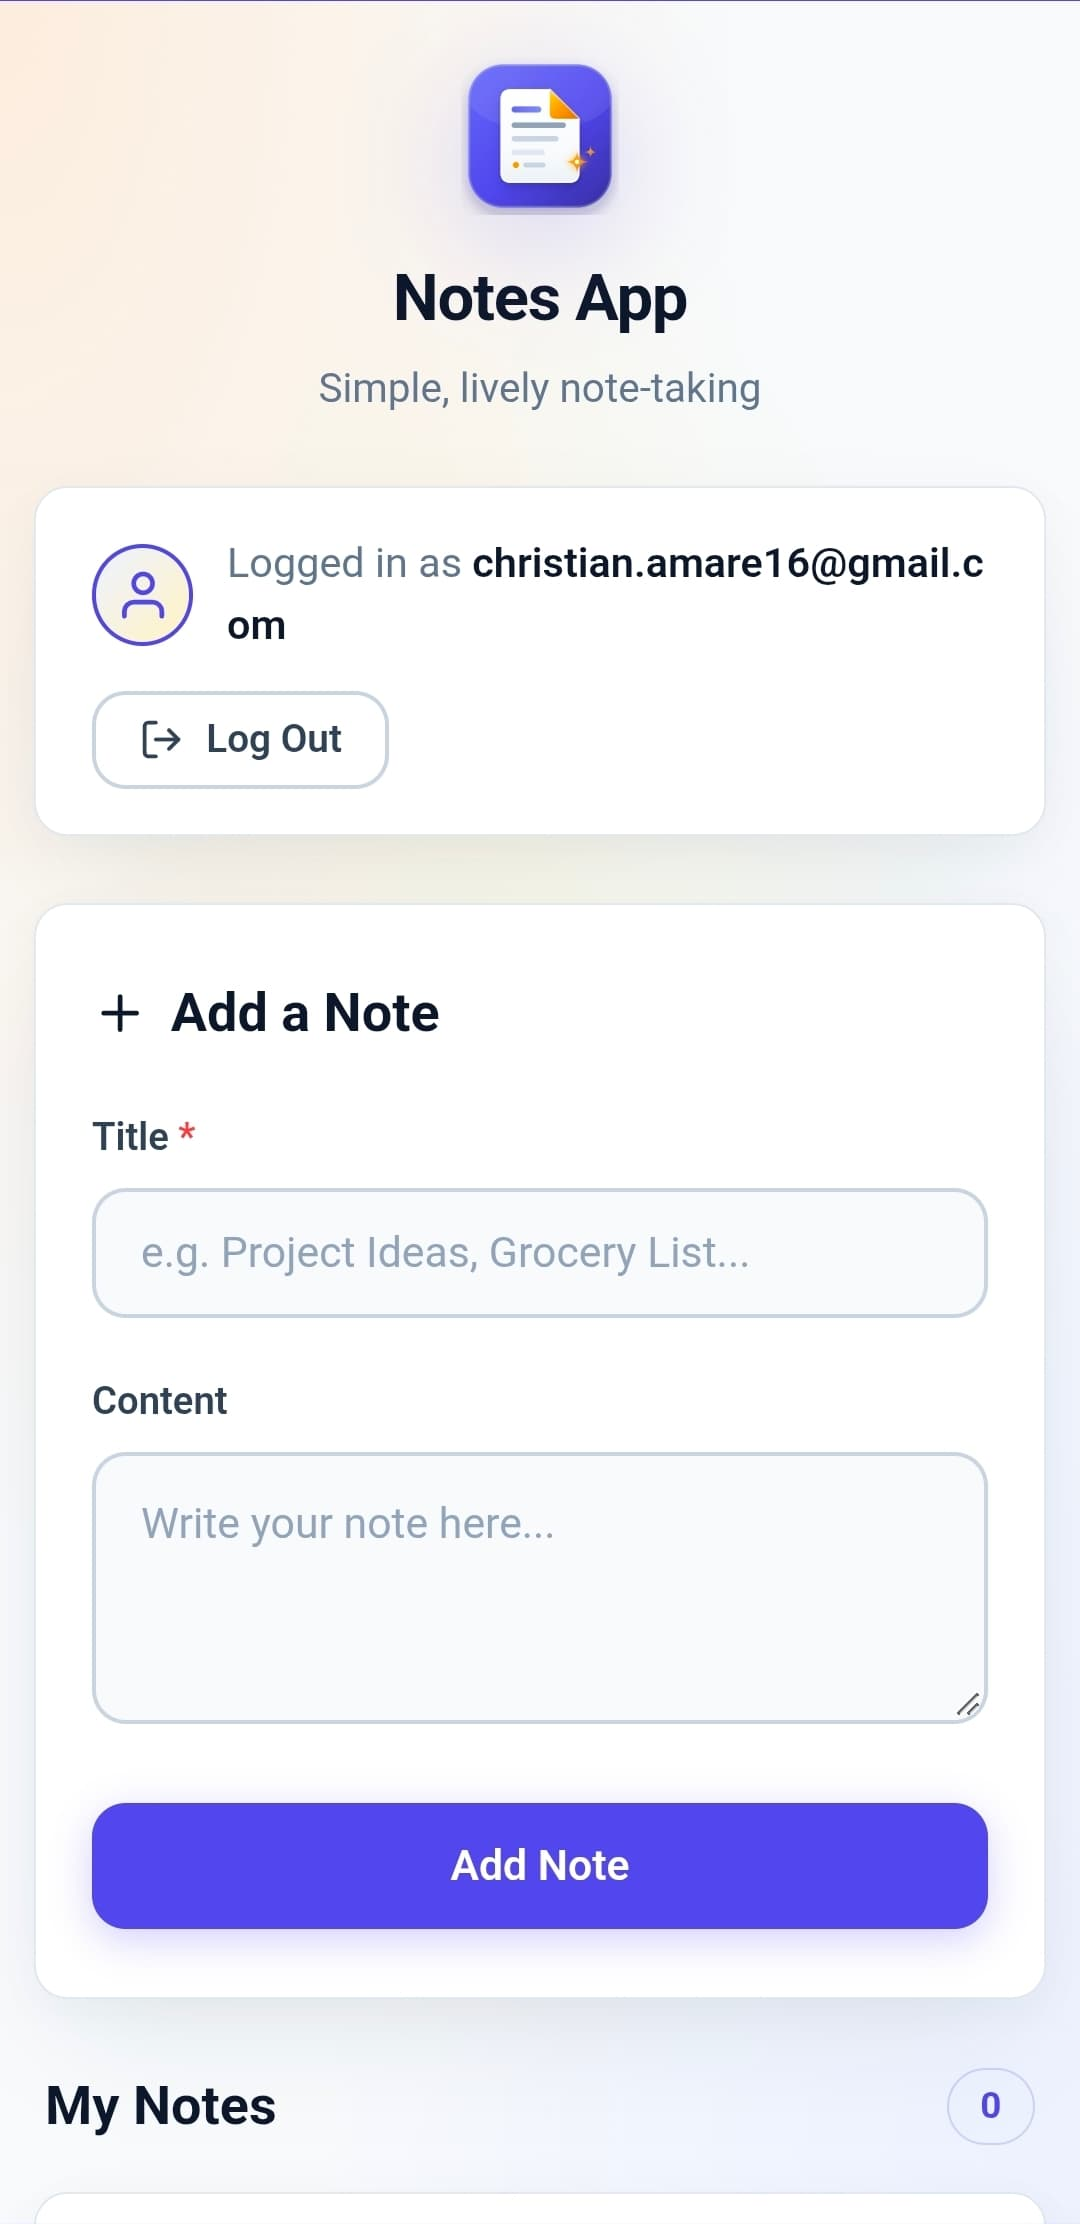
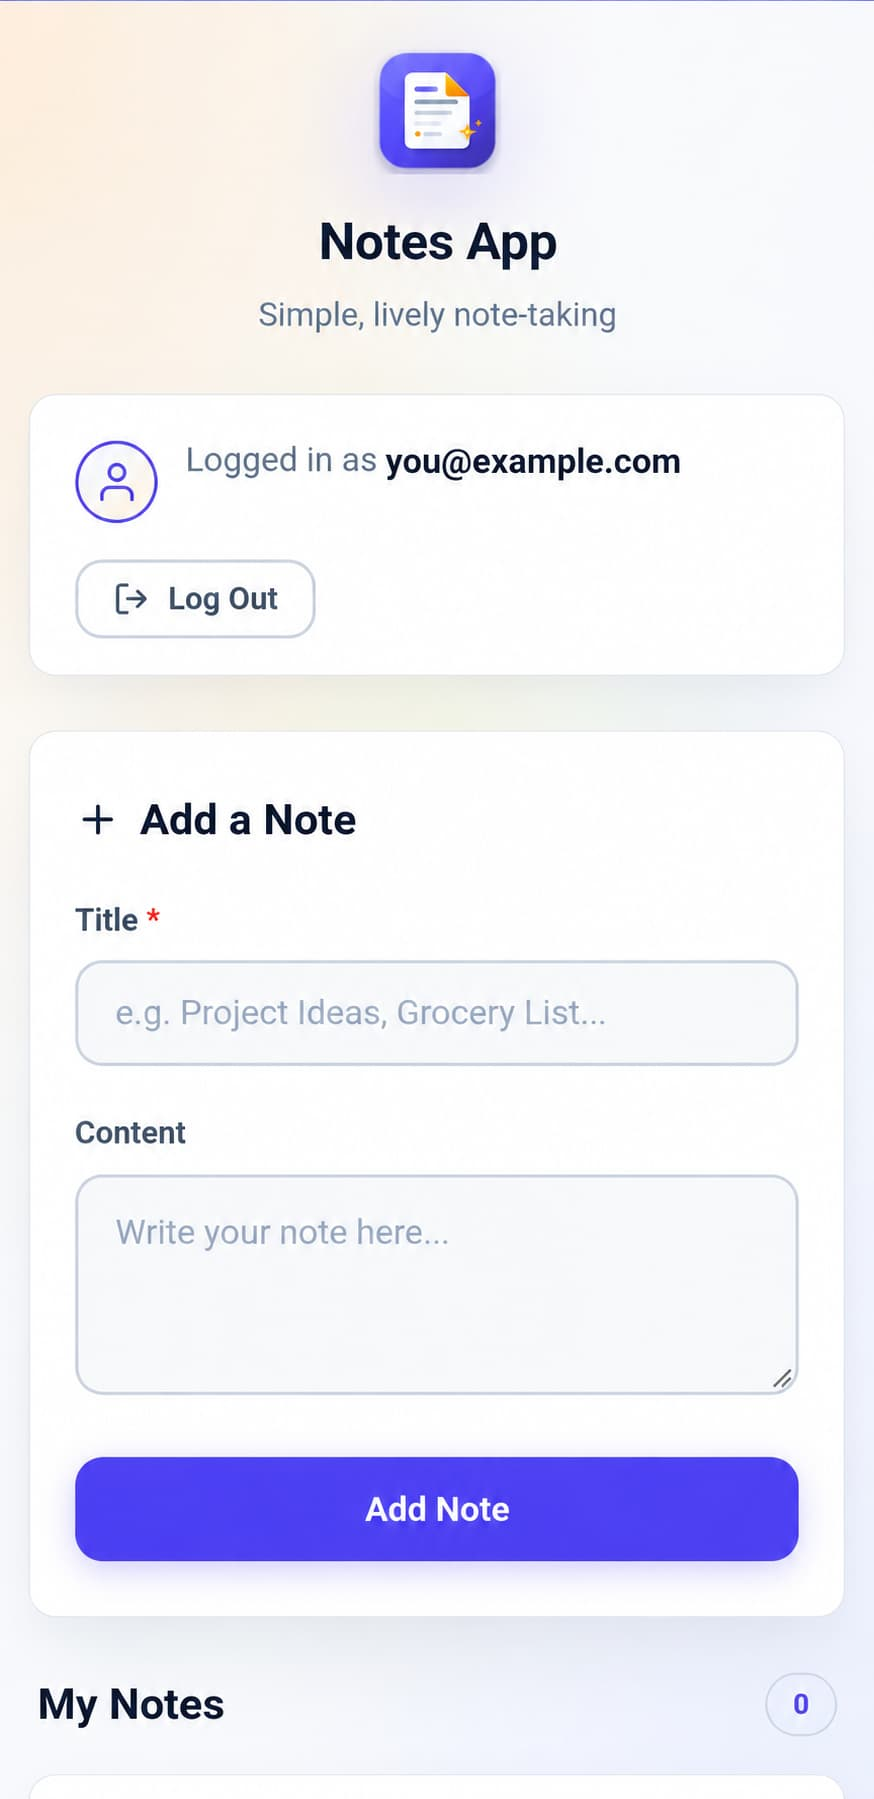
changed notes-app-add and description

diff --git a/index.html b/index.html
@@ -343,12 +343,12 @@ me = <span class="token-class">Student</span>()
                   type="button"
                   class="project-card__thumb-btn"
                   data-full="images/notes-app-add.jpg"
-                  data-caption="Notes App — Note editor with photo and PDF attachment upload"
+                  data-caption="Notes App — Minimalist note editor for creating titled  notes"
                   aria-label="View larger image: Note editor with attachments"
                 >
                   <img
                     src="images/notes-app-add.jpg"
-                    alt="Notes App editor screen for creating a new note with photo and PDF attachments"
+                    alt="Notes App editor screen for creating a new titled notes"
                     loading="lazy"
                     width="1080"
                     height="2224"
@@ -374,7 +374,7 @@ me = <span class="token-class">Student</span>()
                 >
                   <img
                     src="images/notes-app-list.jpg"
-                    alt="Notes App dashboard showing list of private saved notes"
+                    alt="Notes App dashboard showing list of private saved notes with editing buttons"
                     loading="lazy"
                     width="1080"
                     height="2224"
